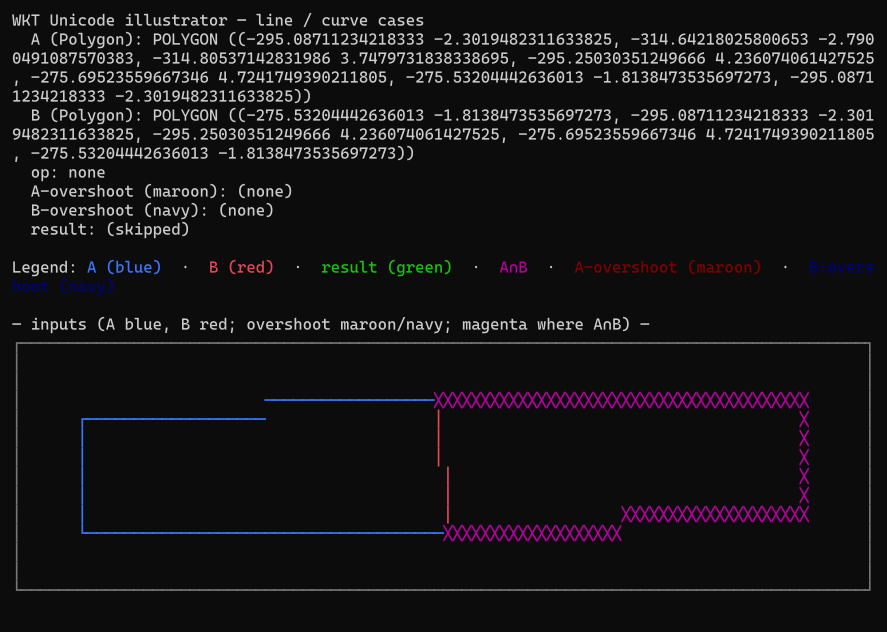
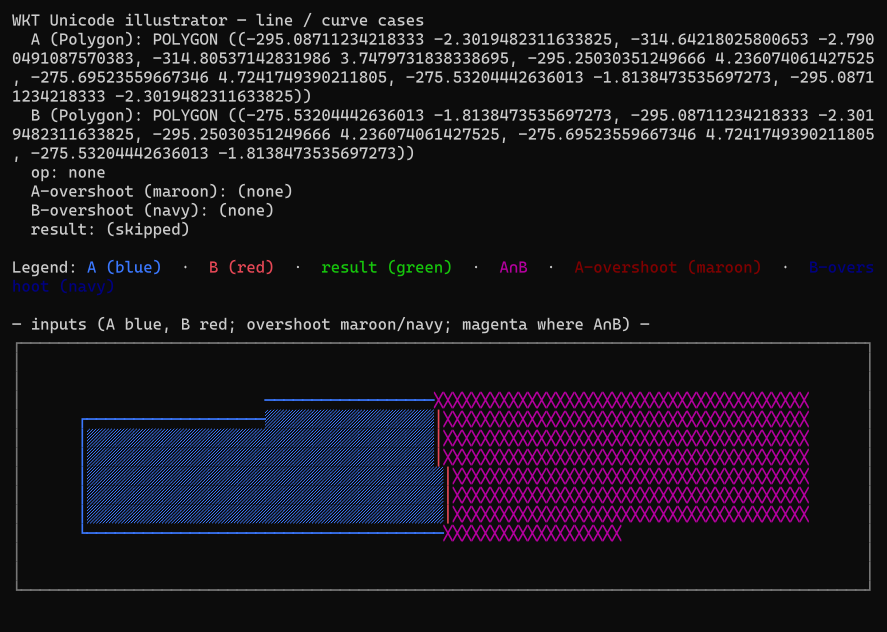
Fill surface interiors: shade single, cross-hatch overlap
Interiors of polygonal inputs now shade with the input colour (A/B)
and render the A-and-B overlap region as magenta cross-hatch, with
boundary structure glyphs drawn on top - the Venn reading requested
for surface cases. Cell-centre point-in-polygon against the
linearized surfaces via prepared geometry; new FillA/FillB layers;
--no-fill reverts to boundary-only; --demo venn shows two discs.

Gallery facsimiles regenerated: the #1344 expected-vs-actual image now
shows the polygon GEOS drops as literal shaded mass. Suite 53 facts.

Changed region(s): [[0.0913, 0.6313, 0.9132, 0.8418]]

diff --git a/tools/WktUnicodeIllustrator/Program.cs b/tools/WktUnicodeIllustrator/Program.cs
@@ -44,6 +44,11 @@ internal static class Program
             wktA ??= CaseIllustrator.DefaultCurveA;
             wktB ??= CaseIllustrator.DefaultCurveB;
         }
+        else if (opts.DemoVenn)
+        {
+            wktA ??= CaseIllustrator.DefaultVennA;
+            wktB ??= CaseIllustrator.DefaultVennB;
+        }
 
         if (opts.PngPath is null)
         {
@@ -55,7 +60,8 @@ internal static class Program
                 height: opts.Height,
                 useColor: useColor,
                 showOvershoot: opts.ShowOvershoot,
-                cellAspect: opts.CellAspect);
+                cellAspect: opts.CellAspect,
+                showFill: opts.ShowFill);
 
             if (result.ExitCode != 0)
             {
@@ -75,7 +81,8 @@ internal static class Program
             width: opts.Width,
             height: opts.Height,
             showOvershoot: opts.ShowOvershoot,
-            cellAspect: opts.CellAspect);
+            cellAspect: opts.CellAspect,
+            showFill: opts.ShowFill);
 
         if (composed.Scenario is null)
         {
@@ -108,7 +115,9 @@ internal static class Program
               --op <name>        intersection | union | difference | symdifference | none
               --demo curve       CIRCULARSTRING × CIRCULARSTRING crossing
               --demo overshoot   self-overlapping CIRCULARSTRINGs (retrace arcs)
+              --demo venn        two overlapping discs (░ single, ╳ overlap)
               --no-overshoot     skip maroon/navy self-overlap layers
+              --no-fill          skip ░/╳ surface-interior fills
               --width N          grid width  (default: 41)
               --height N         grid height (default: 21)
               --cell-aspect R    terminal cell height/width for visual aspect
@@ -156,7 +165,9 @@ internal static class Program
         public bool ForceColor { get; init; }
         public bool DemoCurve { get; init; }
         public bool DemoOvershoot { get; init; }
+        public bool DemoVenn { get; init; }
         public bool ShowOvershoot { get; init; } = true;
+        public bool ShowFill { get; init; } = true;
         public bool Help { get; init; }
 
         public static Options Parse(string[] args)
@@ -166,7 +177,8 @@ internal static class Program
             int w = 41, h = 21;
             double cellAspect = WorldToGrid.DefaultCellAspect;
             bool color = true, forceColor = false, help = false;
-            bool demoCurve = false, demoOvershoot = false, showOvershoot = true;
+            bool demoCurve = false, demoOvershoot = false, demoVenn = false;
+            bool showOvershoot = true, showFill = true;
 
             for (int i = 0; i < args.Length; i++)
             {
@@ -187,6 +199,9 @@ internal static class Program
                     case "--no-overshoot":
                         showOvershoot = false;
                         break;
+                    case "--no-fill":
+                        showFill = false;
+                        break;
                     case "--demo" when i + 1 < args.Length:
                         {
                             string which = args[++i];
@@ -198,8 +213,12 @@ internal static class Program
                                      || which.Equals("self", StringComparison.OrdinalIgnoreCase)
                                      || which.Equals("overlap", StringComparison.OrdinalIgnoreCase))
                                 demoOvershoot = true;
+                            else if (which.Equals("venn", StringComparison.OrdinalIgnoreCase)
+                                     || which.Equals("discs", StringComparison.OrdinalIgnoreCase)
+                                     || which.Equals("fill", StringComparison.OrdinalIgnoreCase))
+                                demoVenn = true;
                             else
-                                throw new ArgumentException($"Unknown demo '{which}' (try: curve | overshoot).");
+                                throw new ArgumentException($"Unknown demo '{which}' (try: curve | overshoot | venn).");
                             break;
                         }
                     case "--curve" or "--curves":
@@ -247,7 +266,9 @@ internal static class Program
                 ForceColor = forceColor,
                 DemoCurve = demoCurve,
                 DemoOvershoot = demoOvershoot,
+                DemoVenn = demoVenn,
                 ShowOvershoot = showOvershoot,
+                ShowFill = showFill,
                 Help = help,
             };
         }

diff --git a/tools/WktUnicodeIllustrator.Tests/SurfaceFillTests.cs b/tools/WktUnicodeIllustrator.Tests/SurfaceFillTests.cs
@@ -1,0 +1,83 @@
+using NetTopologySuite.Geometries;
+using WktUnicodeIllustrator;
+using Xunit;
+
+namespace WktUnicodeIllustrator.Tests;
+
+/// <summary>
+/// Surface-interior fills: ░ for one geometry's interior, ╳ where both
+/// overlap, strokes drawn on top. Asserted at the Scenario seam (fill layers
+/// per cell) and on the printed text.
+/// </summary>
+public class SurfaceFillTests
+{
+    private const string RectA = "POLYGON ((0 0, 8 0, 8 3, 0 3, 0 0))";
+    private const string RectB = "POLYGON ((4 1, 12 1, 12 4, 4 4, 4 1))";
+
+    [Fact]
+    public void Overlapping_rectangles_fill_their_interiors_and_overlap()
+    {
+        var composed = CaseIllustrator.Compose(wktA: RectA, wktB: RectB, operation: "none");
+        var s = composed.Scenario!;
+
+        Layer At(double x, double y)
+        {
+            var (c, r) = s.Map.Project(new Coordinate(x, y));
+            return s.Canvas[c, r];
+        }
+
+        Layer aOnly = At(2, 1.5);
+        Assert.True(aOnly.HasFlag(Layer.FillA));
+        Assert.False(aOnly.HasFlag(Layer.FillB));
+
+        Layer bOnly = At(10, 2.5);
+        Assert.True(bOnly.HasFlag(Layer.FillB));
+        Assert.False(bOnly.HasFlag(Layer.FillA));
+
+        Layer both = At(6, 2);
+        Assert.True(both.HasFlag(Layer.FillA));
+        Assert.True(both.HasFlag(Layer.FillB));
+    }
+
+    [Fact]
+    public void Filled_render_shows_shade_and_overlap_glyphs()
+    {
+        var r = CaseIllustrator.Render(wktA: RectA, wktB: RectB, operation: "none", useColor: false);
+        Assert.Equal(0, r.ExitCode);
+        Assert.Contains('░', r.Text);
+        Assert.Contains('╳', r.Text);
+    }
+
+    [Fact]
+    public void No_fill_disables_the_shading()
+    {
+        var r = CaseIllustrator.Render(
+            wktA: RectA, wktB: RectB, operation: "none", useColor: false, showFill: false);
+        Assert.Equal(0, r.ExitCode);
+        Assert.DoesNotContain('░', r.Text);
+    }
+
+    [Fact]
+    public void Lineal_inputs_produce_no_fills()
+    {
+        var composed = CaseIllustrator.Compose();
+        var canvas = composed.Scenario!.Canvas;
+        for (int y = 0; y < canvas.Height; y++)
+            for (int x = 0; x < canvas.Width; x++)
+                Assert.Equal(Layer.None, canvas[x, y] & (Layer.FillA | Layer.FillB));
+    }
+
+    [CurveFact]
+    public void Venn_demo_fills_discs_and_lens()
+    {
+        var r = CaseIllustrator.Render(
+            wktA: CaseIllustrator.DefaultVennA,
+            wktB: CaseIllustrator.DefaultVennB,
+            operation: "none",
+            useColor: false);
+
+        Assert.Equal(0, r.ExitCode);
+        Assert.Contains('░', r.Text);
+        Assert.Contains('╳', r.Text);
+    }
+}

diff --git a/tools/WktUnicodeIllustrator/CaseIllustrator.cs b/tools/WktUnicodeIllustrator/CaseIllustrator.cs
@@ -28,6 +28,14 @@ public static class CaseIllustrator
     public const string DefaultOvershootB =
         "CIRCULARSTRING (0 10, 5 4, 10 10, 5 4, 0 10)";
 
+    /// <summary>Two heavily overlapping discs (Venn demo: ░ single, ╳ overlap).</summary>
+    public const string DefaultVennA =
+        "CURVEPOLYGON (CIRCULARSTRING (-1.4 0, -0.4 1, 0.6 0, -0.4 -1, -1.4 0))";
+
+    /// <summary>Right disc of the Venn demo.</summary>
+    public const string DefaultVennB =
+        "CURVEPOLYGON (CIRCULARSTRING (-0.6 0, 0.4 1, 1.4 0, 0.4 -1, -0.6 0))";
+
     public static IllustratorResult Render(
         string? wktA = null,
         string? wktB = null,
@@ -36,9 +44,10 @@ public static class CaseIllustrator
         int height = 21,
         bool useColor = false,
         bool showOvershoot = true,
-        double cellAspect = WorldToGrid.DefaultCellAspect)
+        double cellAspect = WorldToGrid.DefaultCellAspect,
+        bool showFill = true)
     {
-        var composed = Compose(wktA, wktB, operation, width, height, showOvershoot, cellAspect);
+        var composed = Compose(wktA, wktB, operation, width, height, showOvershoot, cellAspect, showFill);
         if (composed.Scenario is null)
             return IllustratorResult.Fail(composed.ExitCode, composed.Error!);
 
@@ -63,7 +72,8 @@ public static class CaseIllustrator
         int width = 41,
         int height = 21,
         bool showOvershoot = true,
-        double cellAspect = WorldToGrid.DefaultCellAspect)
+        double cellAspect = WorldToGrid.DefaultCellAspect,
+        bool showFill = true)
     {
         wktA ??= DefaultA;
         wktB ??= DefaultB;
@@ -158,6 +168,11 @@ public static class CaseIllustrator
 
         Rasterizer.DrawGeometry(canvas, map, aDraw, Layer.A);
         Rasterizer.DrawGeometry(canvas, map, bDraw, Layer.B);
+        if (showFill)
+        {
+            Rasterizer.FillGeometry(canvas, map, aDraw, Layer.FillA);
+            Rasterizer.FillGeometry(canvas, map, bDraw, Layer.FillB);
+        }
         if (overA is { IsEmpty: false })
             Rasterizer.DrawGeometry(canvas, map, overA, Layer.OvershootA);
         if (overB is { IsEmpty: false })

diff --git a/tools/WktUnicodeIllustrator/Rasterizer.cs b/tools/WktUnicodeIllustrator/Rasterizer.cs
@@ -1,4 +1,6 @@
 using NetTopologySuite.Geometries;
+using NetTopologySuite.Geometries.Prepared;
+using NetTopologySuite.Geometries.Utilities;
 
 namespace WktUnicodeIllustrator;
 
@@ -56,6 +58,30 @@ internal static class Rasterizer
             var a = map.Project(coords[i]);
             var b = map.Project(coords[i + 1]);
             DrawSegment(canvas, a.Col, a.Row, b.Col, b.Row, layer);
+        }
+    }
+
+    /// <summary>
+    /// Mark every cell whose centre lies inside a surface of <paramref name="g"/>.
+    /// Non-areal geometry contributes nothing.
+    /// </summary>
+    public static void FillGeometry(Canvas canvas, WorldToGrid map, Geometry g, Layer fillLayer)
+    {
+        var polygons = PolygonExtracter.GetPolygons(g);
+        if (polygons.Count == 0) return;
+
+        Geometry areal = g.Factory.BuildGeometry(polygons);
+        var prepared = PreparedGeometryFactory.Prepare(areal);
+        var factory = g.Factory;
+
+        for (int y = 0; y < canvas.Height; y++)
+        {
+            for (int x = 0; x < canvas.Width; x++)
+            {
+                var centre = factory.CreatePoint(map.Unproject(x, y));
+                if (prepared.Covers(centre))
+                    canvas.Paint(x, y, fillLayer);
+            }
         }
     }
 

diff --git a/tools/WktUnicodeIllustrator/Style.cs b/tools/WktUnicodeIllustrator/Style.cs
@@ -188,6 +188,12 @@ internal static class Style
         if (a && glyphs.A[y, x] is not ('\0' or ' ')) return glyphs.A[y, x];
         if (b && glyphs.B[y, x] is not ('\0' or ' ')) return glyphs.B[y, x];
         if (a || b) return '·';
+
+        // Surface interiors: ░ for one geometry, ╳ where both overlap.
+        bool fa = layers.HasFlag(Layer.FillA);
+        bool fb = layers.HasFlag(Layer.FillB);
+        if (fa && fb) return '╳';
+        if (fa || fb) return '░';
         return ' ';
     }
 
@@ -207,6 +213,12 @@ internal static class Style
         if (a && b) return DocColor.Both;
         if (a) return DocColor.A;
         if (b) return DocColor.B;
+
+        bool fa = layers.HasFlag(Layer.FillA);
+        bool fb = layers.HasFlag(Layer.FillB);
+        if (fa && fb) return DocColor.Both;
+        if (fa) return DocColor.A;
+        if (fb) return DocColor.B;
         return DocColor.Dim;
     }
 

diff --git a/tools/WktUnicodeIllustrator/WorldToGrid.cs b/tools/WktUnicodeIllustrator/WorldToGrid.cs
@@ -43,6 +43,14 @@ internal sealed class WorldToGrid
         _maxY = cy + hy;
     }
 
+    /// <summary>World coordinates of a cell's centre (inverse of <see cref="Project"/>).</summary>
+    public Coordinate Unproject(int col, int row)
+    {
+        double u = (double)col / (_width - 1);
+        double v = 1.0 - (double)row / (_height - 1);
+        return new Coordinate(_minX + u * (_maxX - _minX), _minY + v * (_maxY - _minY));
+    }
+
     public (int Col, int Row) Project(Coordinate c)
     {
         double u = (c.X - _minX) / (_maxX - _minX);

diff --git a/tools/WktUnicodeIllustrator/Canvas.cs b/tools/WktUnicodeIllustrator/Canvas.cs
@@ -40,4 +40,8 @@ internal enum Layer
     OvershootA = 8,
     /// <summary>Self-overlap / overshoot on geometry B (navy).</summary>
     OvershootB = 16,
+    /// <summary>Interior of a surface in A (░ fill; ╳ where it meets FillB).</summary>
+    FillA = 32,
+    /// <summary>Interior of a surface in B.</summary>
+    FillB = 64,
 }

diff --git a/tools/WktUnicodeIllustrator/README.md b/tools/WktUnicodeIllustrator/README.md
@@ -8,6 +8,7 @@ ANSI-coloured **Unicode sketches** of spatial cases from WKT — lines **and** S
 | **B** | red | second input geometry |
 | **result** | green | operation output (default: intersection) |
 | A∩B pixel | magenta | grid cell touched by both inputs (before result paint) |
+| **fill** | ░ (input colour) | surface interior; `╳` magenta where both interiors overlap (`--no-fill` to disable) |
 | **A-overshoot** | maroon | self-overlap on A (e.g. CIRCULARSTRING that retraces itself) |
 | **B-overshoot** | navy | self-overlap on B |
 
@@ -79,7 +80,9 @@ Requires a UTF-8 terminal (Windows Terminal, modern PowerShell, or `chcp 65001`)
 4. Rasterize linework with Bresenham + direction glyphs (`─ │ ╱ ╲`).
 5. Print twice: inputs only, then with green result overlay.
 
-Polygons and other types stroke their boundary as a fallback; richer fills are out of MVP scope.
+Polygons stroke their boundary and shade their interior (`░` single, `╳` overlap;
+cell-centre point-in-polygon against the linearized surfaces). `--demo venn` shows it;
+`--no-fill` reverts to boundary-only.
 
 ## Layout
 

diff --git a/docs/geos-overlay-gallery-rung3-2026-08.md b/docs/geos-overlay-gallery-rung3-2026-08.md
@@ -17,7 +17,7 @@ validation; see §4).
 | GEOS (issue reports) | 3.14.1 (via shapely 2.1.2, per reporters) |
 | GEOS (local repro) | `/home/user/geos-src` @ `4f7ec39`, branch `feat/curve-pip-collections-rebase` (tracks main + curve PRs), `geosop` from `/home/user/geos-build` |
 | NTS | sibling clone, branch `feat/curves-structure-wkt-foundation` |
-| Illustrator | `tools/WktUnicodeIllustrator` @ `aafb92b` (post cell-aspect fix) |
+| Illustrator | text panels @ `aafb92b` (boundary-only era); PNG facsimiles regenerated with surface fills (░ interior, ╳ overlap) |
 | Date | 2026-08-21 |
 
 Both bugs **reproduce on the local near-main GEOS build**, not only on released

diff --git a/CLAUDE.md b/CLAUDE.md
@@ -17,7 +17,8 @@ dotnet run --project tools/WktUnicodeIllustrator -- [options] "WKT_A" "WKT_B"
   --no-color                  plain Unicode (use when output is captured)
   --png <path>                also write a deterministic PNG facsimile
                               (always coloured; use for doc images)
-  --demo curve|overshoot
+  --no-fill                   boundary-only (fills: ░ interior, ╳ overlap)
+  --demo curve|overshoot|venn
 ```
 
 Exit codes: `0` ok · `2` bad args/parse/empty · `3` overlay or overshoot

diff --git a/CONTEXT.md b/CONTEXT.md
@@ -51,7 +51,7 @@ _Avoid_: diagram, illustration, art
 
 **Layer**:
 One of the named strata a grid cell can carry: A, B, result, A∩B, A-overshoot,
-B-overshoot.
+B-overshoot, and the surface-interior fills of A and B.
 _Avoid_: channel, plane
 
 **Overshoot**:
